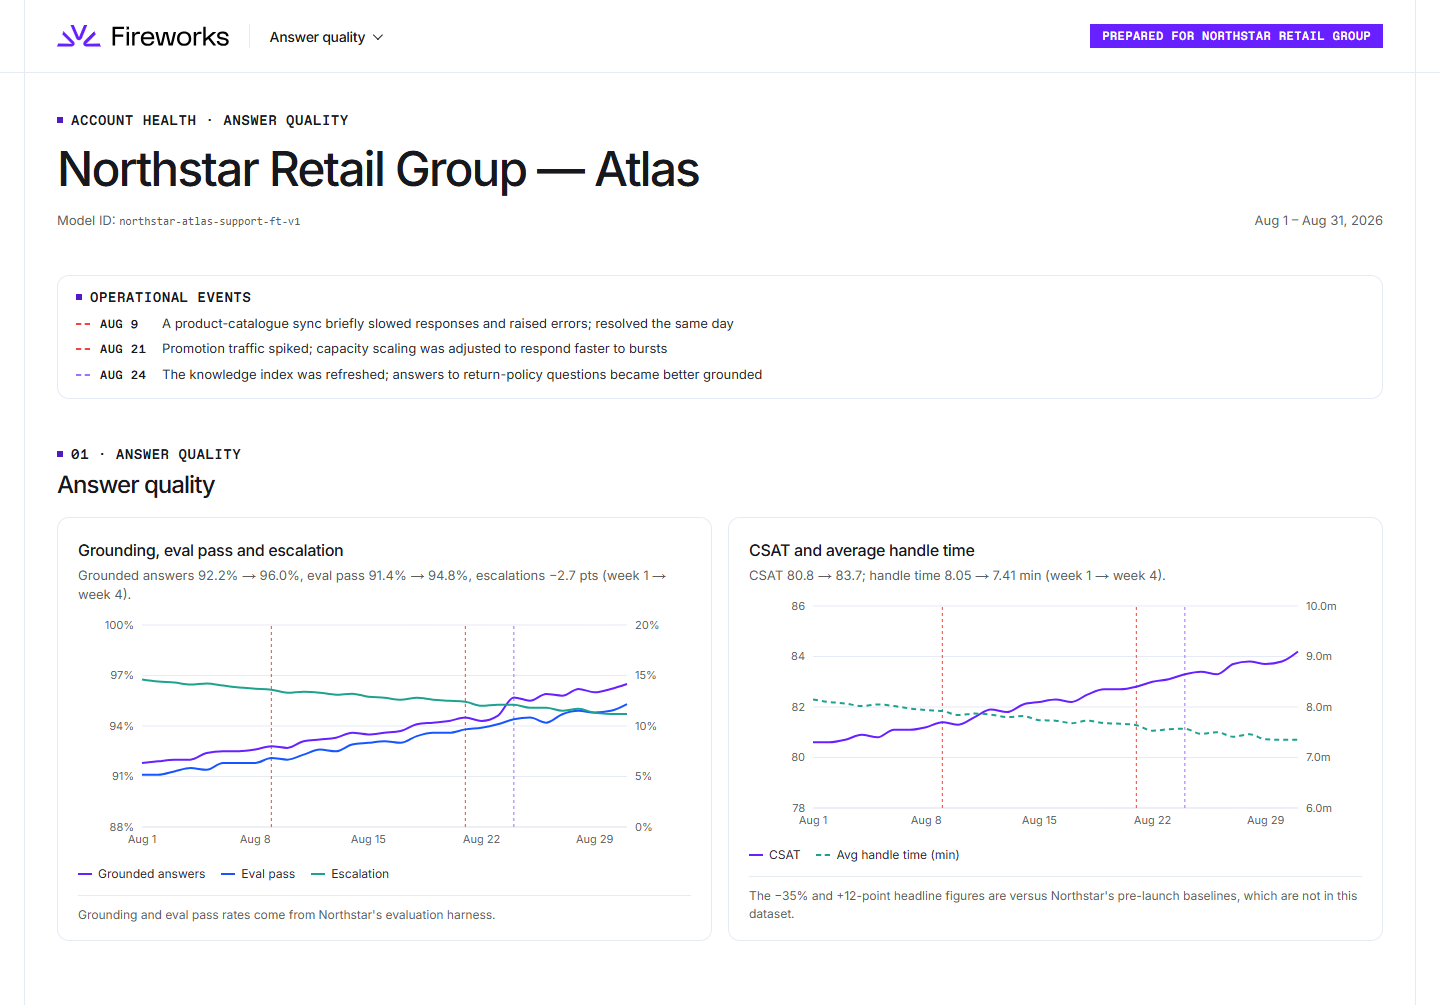
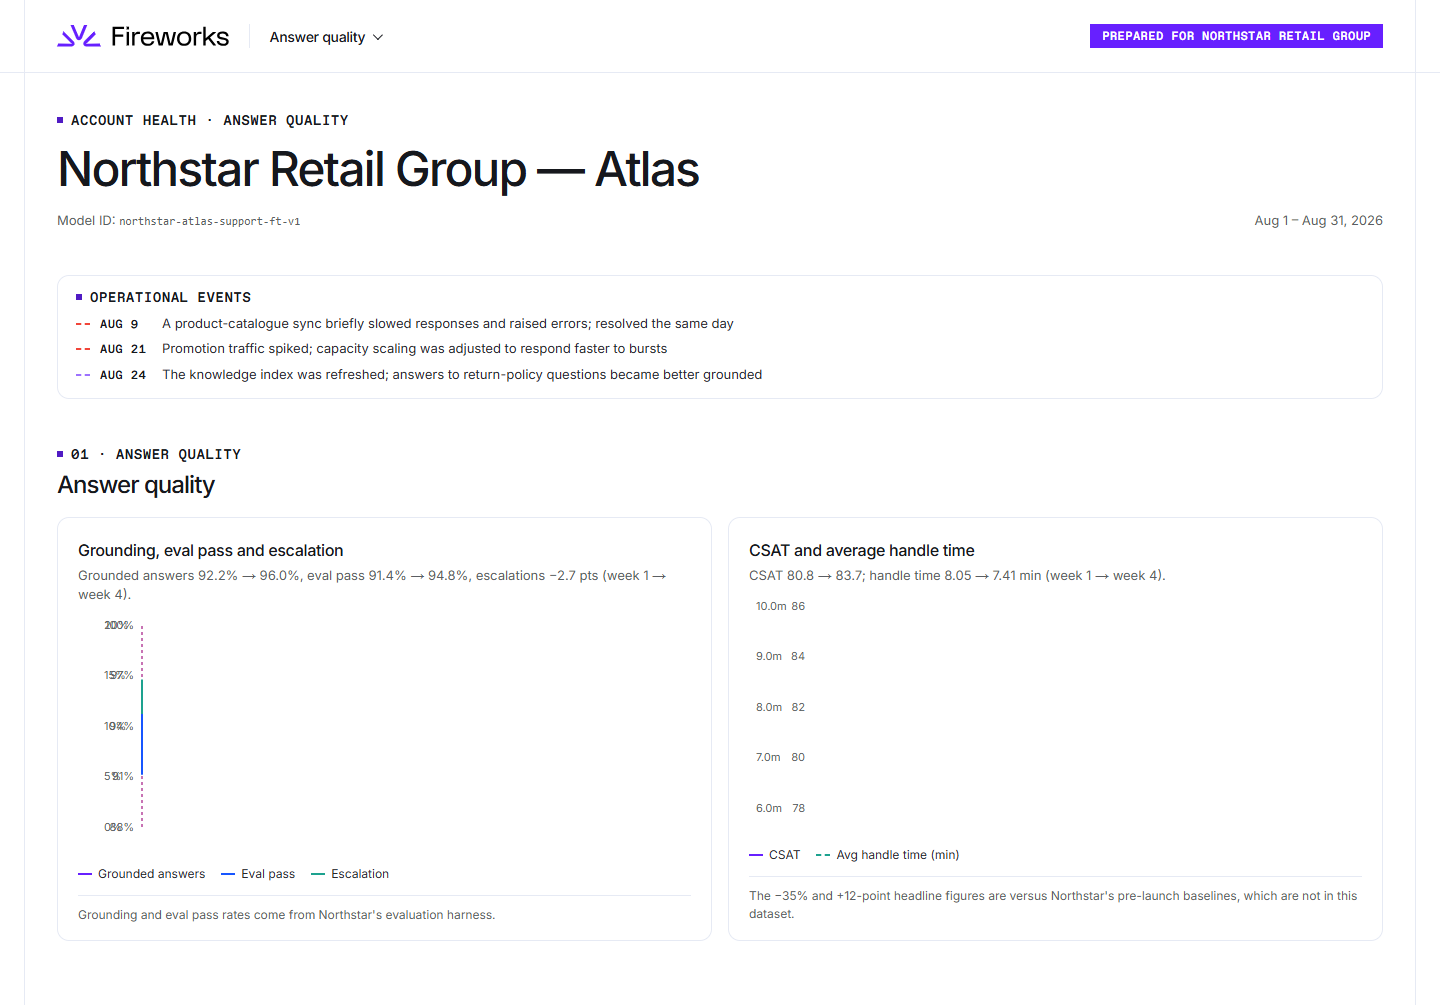
README summary-first for submission; final screenshots (#56)
README now opens with the deliverables map and the short version, then
quick start for both apps (dev, build, preview, test), the views, data,
assumptions, layout and limitations. Fresh clone verified with npm ci,
build and 27 tests on Node 22.23 and 24.12. Screenshots regenerated for
all nine views.

diff --git a/README.md b/README.md
@@ -1,115 +1,116 @@
-# Northstar Retail Group: Fireworks dashboards
+# Northstar Retail Group: account health, QBR and EBR
 
-There are two dashboards for **Northstar Retail Group**'s support model on its flagship brand, **Atlas**. Each is a **separate app**, so internal commercial judgement can never leak into the customer view.
+Fireworks' account review of **Northstar Retail Group**'s fine-tuned support model on its flagship brand, **Atlas**, after one month in production, and the case for expanding to Northstar's four other brands.
 
-| App | Audience | Status |
+## What's here
+
+| Deliverable | Where | Audience |
 |---|---|---|
-| `internal-qbr/` | Fireworks account, engineering and leadership teams | **MVP:** 30-day adoption, spend, reliability, latency and quality trends |
-| `customer-health/` | Northstar VP of Customer Experience and VP of Engineering | Not started |
+| 1. Internal QBR dashboard | `internal-qbr/` (port 5173) | Fireworks account, engineering and leadership teams |
+| 2. Customer health dashboard | `customer-health/` (port 5174) | Northstar VP Customer Experience and VP Engineering |
+| 3. EBR deck, 7 slides with speaker notes | `ebr/Northstar_EBR_Oct2026.pptx` (+ `.pdf`) | Northstar VP Customer Experience and VP Engineering |
+| Design document, with screenshots | [`docs/DESIGN.md`](docs/DESIGN.md) | Reviewers |
+| Health-score method and benchmarks | [`docs/RAMPUP.md`](docs/RAMPUP.md) | Reviewers |
+| Scaling architecture | [`docs/ARCHITECTURE.md`](docs/ARCHITECTURE.md) | Reviewers |
+| Every decision and why | [`docs/DECISIONS.md`](docs/DECISIONS.md) | Reviewers |
 
-The visual design follows fireworks.ai's own design tokens, taken from the site's CSS: brand purple `rgb(103,32,255)`, a `#FAF7FF` surface tint and `#E6EAF4` borders.
+The two dashboards are **separate apps** sharing one data and design package (`shared/`), so internal commercial judgement can't reach the customer build. A test enforces it.
 
-Typography matches the site exactly. **Inter** (variable) is used for titles, body copy and numbers. **Favorit** (weight 550, uppercase, 0.04em tracking) is used for labels. Favorit is a commercial Dinamo font, copied from fireworks.ai for this private submission only; see [`shared/src/theme/fonts/FONTS.md`](shared/src/theme/fonts/FONTS.md).
-
-Every design and scoring decision, with its reasoning, is logged in [`docs/DECISIONS.md`](docs/DECISIONS.md). The plan for scaling from Atlas to the other four brands is in [`docs/ARCHITECTURE.md`](docs/ARCHITECTURE.md).
+**The short version:**
+- **Month one worked.** Tier-1 automation reached 70% by month end (67.9% August average), and quality improved every week.
+- **Reliability is the gap: 99.85% availability.** A 99.9% target is efficient only once several brands share always-on capacity.
+- **Recommendation:** expand on one base model with an adapter, knowledge index and prompt per brand, piloting on Ridgeline first.
+- **Account health:** 3.37 / 5 internally (Positive-Watch); 3.83 / 5 on the customer view, which scores operational pillars only.
 
 ## Quick start
 
-Requirements: **Node.js ≥ 20** (built and tested on Node 24.12 / npm 11.6). No environment variables, API keys or network access are needed after install.
+Requirements: **Node.js ≥ 20**. Tested on Node 22.23 and 24.12 (npm 11) from a fresh clone. No environment variables, API keys or network access are needed after install.
 
 ```
 cd northstar-dashboards
-npm install
+npm ci
 npm run dev:internal
 ```
 
-Then open the internal QBR at **http://localhost:5173**.
+Open the internal QBR at **http://localhost:5173**. In a second terminal:
 
-Production build. `build` type-checks and writes `internal-qbr/dist`; `preview:internal` serves it at **http://localhost:4173**:
+```
+npm run dev:customer
+```
+
+Open the customer dashboard at **http://localhost:5174**.
+
+Production build (type-checks both apps, then builds `internal-qbr/dist` and `customer-health/dist`):
 
 ```
 npm run build
 npm run preview:internal
+npm run preview:customer
 ```
 
-These commands work as written in PowerShell, cmd and bash. Don't paste trailing `# comments` into Windows `cmd`, which passes them through as arguments.
+Previews serve at **http://localhost:4173** (internal) and **http://localhost:4174** (customer).
 
-Tests (CSV validation and derived-metric reconciliation):
+Tests: CSV validation, derived-metric reconciliation, scoring, routing, and the customer boundary.
 
-```bash
+```
 npm test
 ```
 
+These commands work as written in PowerShell, cmd and bash.
+
+## Views
+
+Each view is a shareable URL, chosen from the dropdown next to the Fireworks logo.
+
+| App | View | URL | Contents |
+|---|---|---|---|
+| Internal | Account health | `#/health` | Customer score (RAMP UP, six pillars), Focus areas pop-up, eight headline metrics, operational events |
+| Internal | Performance trends | `#/trends` | Nine daily charts; each headline tile opens its chart here |
+| Internal | Expansion plan | `#/plan` | Pipeline across four brands, top three risks, stakeholder coverage, dependencies / support burden / margin, competitive risk, decisions needed, next actions |
+| Customer | Outcomes | `#/outcomes` | Operational health (four pillars), headline results, usage and adoption trends |
+| Customer | Service reliability | `#/service` | Availability vs proposed 99.9% target, errors, latency, known caveats |
+| Customer | Answer quality | `#/quality` | Grounding, eval pass, escalation; CSAT and handle time |
+| Customer | Spend | `#/spend` | Daily and cumulative spend, unit cost, budget context |
+| Customer | Next steps | `#/next-steps` | Ridgeline pilot proposal, Northstar's dependencies, joint actions |
+
 ## Data
 
-The app reads **`data/northstar_flagship_30_day_metrics.csv`**: 31 daily rows, Aug 1–31 2026, with 20 columns.
+Both apps read **`data/northstar_flagship_30_day_metrics.csv`**: 31 daily rows, 1–31 Aug 2026, 20 columns.
 
-- The CSV is bundled at build time. To use different data, replace that file (same columns) and restart `npm run dev:internal` or rebuild.
-- If a column is missing or a value won't parse, the page shows the exact problems instead of charts.
-- The exercise supplied an `.xlsx` with the same columns. `scripts/xlsx_to_csv.py` is the one-off conversion (Python and pandas; only needed to regenerate the CSV).
-
-## What the internal QBR shows
-
-Three views, switched from the dropdown next to the Fireworks logo (each is a shareable URL):
-
-| View | URL | Contents |
-|---|---|---|
-| Account health | `#/health` | Customer score (RAMP UP) with Focus areas (lowest-scoring items), eight headline metrics, operational events |
-| Performance trends | `#/trends` | Nine charts across adoption, spend, reliability, latency and quality; each headline tile opens its chart here |
-| Expansion plan | `#/plan` | Pipeline across the four sister brands, stakeholder coverage, dependencies / support burden / margin, competitive risk, decisions needed, next actions with owners and dates |
-
-Plan content (brand profiles, stakeholders, dependencies, competitors, decisions, actions) lives in `internal-qbr/src/plan.ts`. The sister-brand profiles are scenario assumptions, because the brief's brand descriptions weren't supplied.
-
-- **Customer score (RAMP UP).** An account-health score adapted from GitLab's PROVE. The full method, every benchmark band with its source, and the decision log are in [`docs/RAMPUP.md`](docs/RAMPUP.md). It has six pillars, each scored 1–5:
-
-  | Pillar | Weight | Scored by |
-  |---|---|---|
-  | **R**eliability | 20% | measured |
-  | **A**doption | 20% | measured |
-  | **M**odel quality | 20% | measured |
-  | **P**artnership | 10% | account-team judgement |
-  | **U**ser outcomes | 20% | measured |
-  | **P**rofitability | 10% | account-team judgement |
-
-  - **Measured metrics** are scored on their **full-period average** against published benchmarks: Freshworks Benchmark 2025 (retail conversations), RAGAS CI gates and Microsoft Foundry evaluators, plus the agreed reliability bands.
-  - **Status** is out of 5, like the scores: Healthy ≥ 4, Positive-Watch 3–3.99, Negative-Watch 2–2.99, At risk < 2.
-  - **Transparency:** expand any pillar to see its metrics, scores, bands and sources.
-  - **Code:** the logic and bands are in `shared/src/health/rampup.ts`. The judgement scores are in `internal-qbr/src/judgements.ts`, which the customer view never imports.
-- **KPI strip:** requests/day, spend, availability, P95 latency, eval pass rate. Each compares the last 7 days with the first 7 days.
-- **Operational events:** the three `operational_note` entries (Aug 9, 21, 24). They appear as dashed markers on every chart, red for incidents and purple for changes, and their notes show in the tooltips.
-- **Five sections:**
-
-  | Section | Charts |
-  |---|---|
-  | Adoption | requests vs Tier-1 tickets; automation rate |
-  | Spend | daily and cumulative spend; cost per 1k requests |
-  | Reliability | availability vs target; error rate |
-  | Latency | P50 and P95 |
-  | Quality | grounding, eval pass and escalation; CSAT and handle time |
-
-  Each chart has a one-line takeaway computed from the data.
+- **Bundled at build time.** To use different data, replace that file (same columns) and restart the dev server or rebuild.
+- **Bad data is reported, not hidden.** If a column is missing or a value won't parse, the page lists the exact problems instead of charts.
+- **Source format.** The exercise supplied an `.xlsx` with the same columns. `scripts/xlsx_to_csv.py` is the one-off conversion (Python and pandas; only needed to regenerate the CSV).
 
 ## Assumptions
 
-- **Scenario:** the brief doesn't name the brand. We assume Northstar is an outerwear-fashion holding company and Atlas is its flagship brand. The dashboard shows the model as `northstar-atlas-support-ft-v1`; the CSV's `deployment` column still reads `northstar-flagship-support-ft-v1`. Both are set in `internal-qbr/src/account.ts`.
-- **99.9% availability target:** assumed. The brief gives no SLA, and the chart labels it as an assumption.
-- **No pre-launch baseline:** the dataset has none. The brief's "−35% handle time / +12 CSAT" figures are versus pre-deployment and can't be recomputed from this data.
+Full list in [`docs/DESIGN.md`](docs/DESIGN.md) §8 and [`docs/ARCHITECTURE.md`](docs/ARCHITECTURE.md).
+
+- **Scenario:** Northstar is an outerwear-fashion holding company and Atlas its flagship brand. The dashboards show the model as `northstar-atlas-support-ft-v1`; the CSV's `deployment` column reads `northstar-flagship-support-ft-v1`. Set in `shared/src/account.ts`.
+- **Sister brands:** Ridgeline, Halden, Polar and Harbour & Hide, with their volumes, catalogues and tooling, are invented. The brief's brand descriptions were not supplied.
+- **Pre-launch baselines:** not in the data. The brief's −35% handle time and +12 CSAT are labelled as baseline comparisons supplied by Northstar.
+- **99.9% availability:** a proposed target. No SLA was in place for August.
+- **Billing:** `spend_usd` tracks tokens at a constant ~$1.12 per 1M, so it's treated as Northstar's contracted per-token rate. GPU utilisation is inferred, not observed.
+- **Pricing:** fireworks.ai/pricing as of 5 Oct 2026. All code constants live in `shared/src/pricing.ts`.
 
 ## Project layout
 
 ```
-data/            the CSV
-shared/src/      data loading/validation, derived metrics, Fireworks theme, chart components (reused by both apps)
-internal-qbr/    the internal QBR app (Vite + React + TypeScript)
-scripts/         xlsx → csv conversion
+data/             the CSV
+shared/src/       data loading and validation, derived metrics, RAMP UP scoring, pricing constants, Fireworks theme, components
+internal-qbr/     internal QBR app (Vite + React + TypeScript)
+customer-health/  customer health app (same stack; never imports internal-qbr)
+ebr/              EBR deck (.pptx, .pdf) and its generator (source/)
+docs/             design document, screenshots, scoring method, architecture, decision log
+scripts/          xlsx → csv conversion
 ```
 
-Stack: React 18, Recharts 2, PapaParse, Vite 6, Vitest 3, TypeScript 5.7. npm workspaces link `shared/` into each app.
+Stack: React 18, Recharts 2, PapaParse, Vite 6, Vitest 3, TypeScript 5.7, npm workspaces.
+
+**Typography:** Inter and Favorit, as on fireworks.ai. Favorit is a commercial Dinamo font, included for this private submission only; see [`shared/src/theme/fonts/FONTS.md`](shared/src/theme/fonts/FONTS.md). The EBR deck uses Arial so it renders identically in any copy of PowerPoint.
 
 ## Known limitations
 
-- The customer-facing dashboard (`customer-health/`) and the EBR deck are in progress; the internal QBR is complete.
-- The data is daily and covers one deployment. There's no per-conversation drill-down.
-- Pre-launch baselines, an SLA, and the four sister-brand descriptions were not supplied; every figure that depends on them is labelled as an assumption on the page and in `docs/`.
-- Pricing figures are from fireworks.ai/pricing as of 5 Oct 2026. Code reads them from one file (`shared/src/pricing.ts`); `docs/ARCHITECTURE.md` carries the same fact table. On-demand rates changed on 1 Sep 2026 and may change again.
-- `spend_usd` is treated as Northstar's contracted per-token rate (~$1.12 per 1M tokens, constant every day); GPU utilisation is inferred, not observed.
+- **Daily data for one deployment:** there's no per-conversation drill-down.
+- **Missing inputs:** pre-launch baselines, an SLA and the sister-brand descriptions were not supplied. Every figure that depends on them is labelled as an assumption.
+- **Pricing can change:** on-demand rates changed on 1 Sep 2026 and may change again. Re-check before presenting.
+- **The EBR generator** (`ebr/source/build_ebr.js`) needs `pptxgenjs` and is not part of the npm workspace; the built `.pptx` and `.pdf` are committed.

diff --git a/docs/DECISIONS.md b/docs/DECISIONS.md
@@ -88,3 +88,4 @@ Scoring-specific detail (bands, sources, formulas) lives in [RAMPUP.md](RAMPUP.m
 | 53 | 2026-10-05 | **`spend_usd` is a per-token bill.** Spend ÷ tokens is $1.110–1.123 per 1M on every day, which GPU-second billing can't produce. Treated as Northstar's contracted per-token rate (~$1.12/M) on dedicated capacity; the GPU floor is Fireworks' cost; utilisation (~20% of a GPU-day at list) is inferred, not observed. Revenue and cost become separate lines: ~$115k/yr group token revenue covers one warm floor (~$70k/yr list, $105k EU); a second floor for Halden must earn its own keep. #51 still holds, reframed as "who pays for idle capacity". Refines #46 | Matches the data to three decimals, the dedicated-only rule and enterprise pricing; the dataset's author may know it's per-token, so the GPU-hours inference shouldn't stand as fact | Reading `spend_usd` as a GPU-second bill (#45/#46 framing) |
 | 54 | 2026-10-05 | **Customer dashboard (`customer-health/`, port 5174):** five views (Outcomes, Service reliability, Answer quality, Spend, Next steps); badge "Prepared for Northstar Retail Group"; health shown as "Operational health, 1–5" from the four measured pillars only (3.83; weights redistributed to 25% each), no status band and no Focus areas; events restated in customer language; Known caveats and Budget context cards; joint actions mirror the internal list. A boundary test fails the build if the customer app imports internal code or uses internal-only vocabulary | The brief bars internal sentiment, competitive intelligence, margin and expansion confidence from the customer view; enforcing it in a test means it can't regress | One app with role-based views; showing the status band to the customer |
 | 55 | 2026-10-05 | **EBR deck: 7 slides** (`ebr/Northstar_EBR_Oct2026.pptx` + PDF): month one on Atlas; what the numbers mean; reliability and cost; expand, and how; Ridgeline pilot; sequence and budget; biggest risk and key messages. Fireworks colours and the square motif; Arial instead of Inter so it renders identically in any PowerPoint; speaker notes on every slide; figures match the customer dashboard. Generator kept in `ebr/source/` | Executive audience in a live meeting: one message per slide, caveats in the same breath as each claim, ending on the decisions asked of Northstar | A written brief; a longer deck |
+| 56 | 2026-10-05 | **Submission packaging:** README rewritten summary-first (what's here, how to run both apps, views, assumptions, limitations); fresh clone verified with `npm ci`, build and tests on Node 22.23 and 24.12; ZIP built with `git archive` (no `node_modules`, `dist` or `.git`), excluding `docs/CLAUDE_CODE_TASKS.md` (a working note, not a deliverable) | A reviewer should be able to run it from the README alone; the ZIP should contain only what was asked for | Hand-assembled ZIP; claiming Node 22 without testing it |
